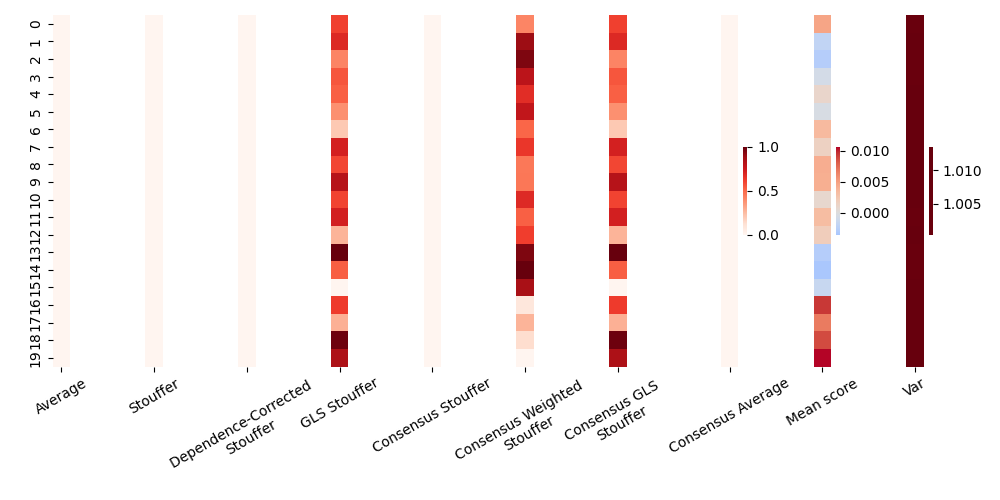
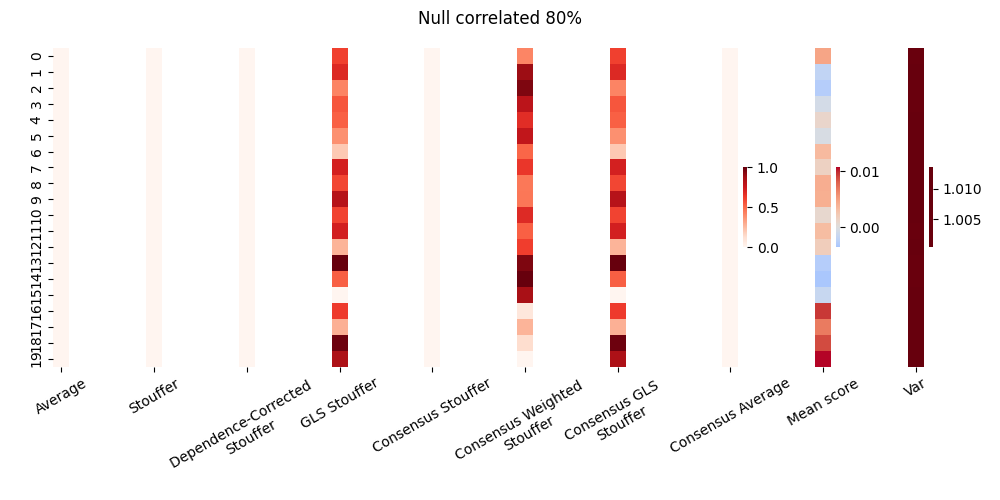
Add title to weight figure

diff --git a/scripts/utils.py b/scripts/utils.py
@@ -203,6 +203,7 @@ def plot_weights(simulation, weights):
      print("Plotting weights for each MA model and pipeline")
      plt.close('all')
      f, axs = plt.subplots(1, weights.columns.size, figsize=(weights.columns.size, 5), gridspec_kw={'wspace': 0})
+     plt.suptitle(simulation)
      for i, (s, a) in enumerate(zip(weights.columns, axs)):
           if i<weights.columns.size-3:
                seaborn.heatmap(numpy.array([weights[s].values]).T, vmin=0, vmax=1, yticklabels=weights.index, cmap='Reds', square=True, xticklabels=[s], fmt='.1f', ax=a, cbar=False)
@@ -215,6 +216,7 @@ def plot_weights(simulation, weights):
           if i>0:
                a.yaxis.set_ticks([])
           a.tick_params(axis='x', rotation=30)
+     
      plt.tight_layout()
      if "\n" in simulation:
           simulation = simulation.replace('\n', '')
